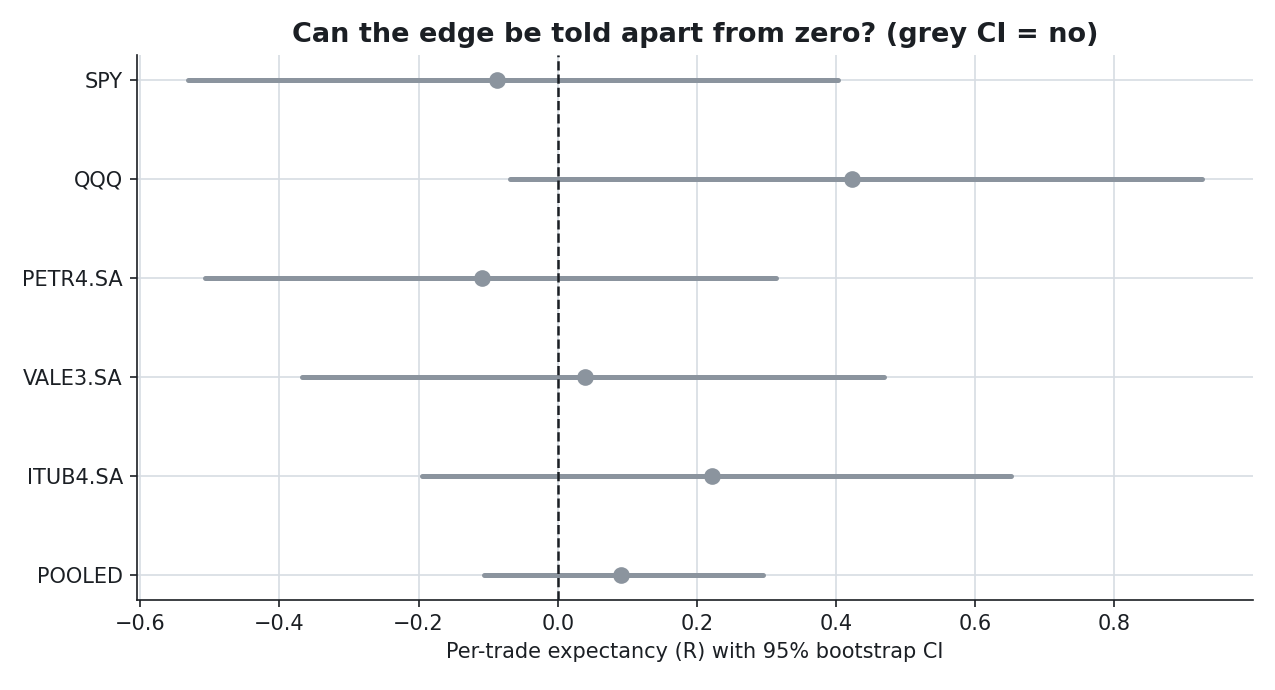
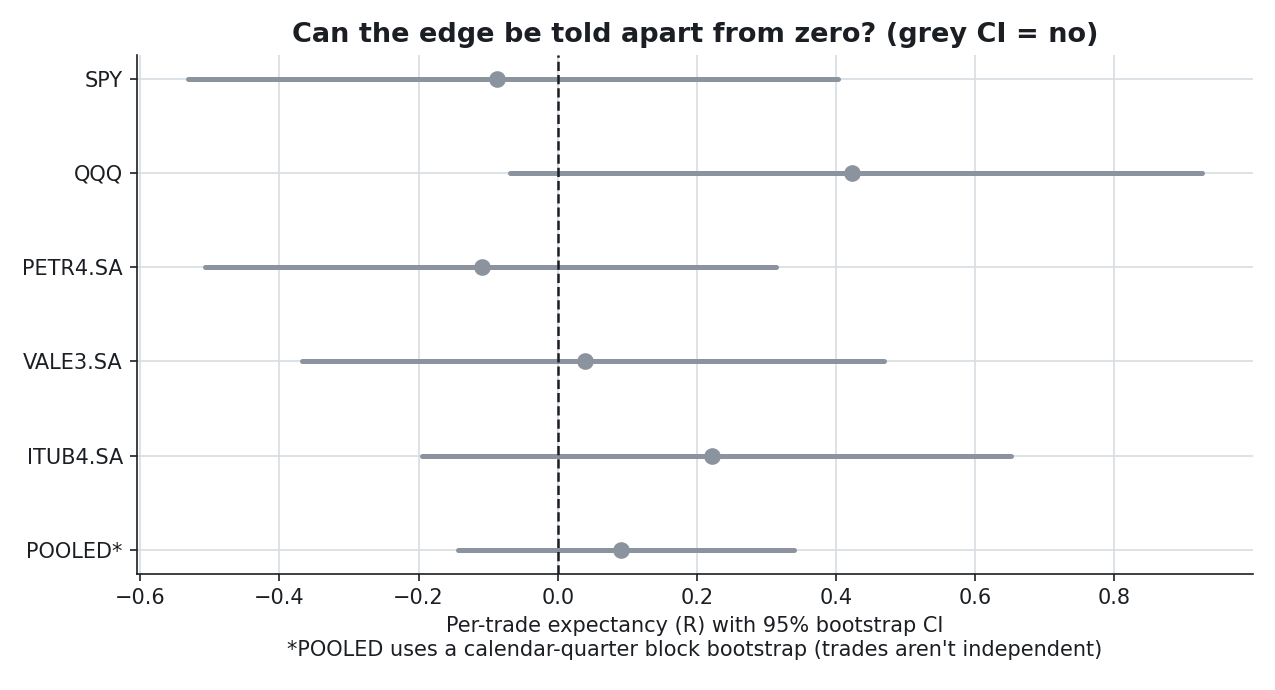
docs: reportar IC block (honesto) no estudo + comparações múltiplas e QQQ fronteira
README e PDF mostram os dois ICs do pooled e explicam por que o block é o
correto (N efetivo ~58 trimestres, não 201 trades). Nomeia o efeito de
comparações múltiplas (1−0,95⁵≈23%) e rotula QQQ como caso de fronteira. BCa
citado como refinamento conhecido que não muda o veredito.

diff --git a/README.md b/README.md
@@ -2,7 +2,7 @@
 
 [![Python](https://img.shields.io/badge/python-3.12+-blue.svg)](https://www.python.org/)
 [![License: MIT](https://img.shields.io/badge/license-MIT-green.svg)](LICENSE)
-[![Tests](https://img.shields.io/badge/tests-37%20passing-brightgreen.svg)](tests/)
+[![Tests](https://img.shields.io/badge/tests-41%20passing-brightgreen.svg)](tests/)
 [![Data](https://img.shields.io/badge/data-Yahoo%20Finance-orange.svg)](https://finance.yahoo.com/)
 [![Report](https://img.shields.io/badge/report-22--page%20PDF-red.svg)](output/expectancy_study.pdf)
 
@@ -25,9 +25,10 @@ instruments and reports the answer without spin.
   **−0.09R**, PETR4 **−0.11R** — but with only ~40 trades each, that spread is exactly what pure chance
   produces even if the true edge were identical (or zero) everywhere.
 - **Statistically, every instrument is a coin-flip.** The **95% bootstrap confidence interval on
-  expectancy straddles zero for all five** — and even **pooling all 201 trades** into one stream leaves
-  it at **[−0.11R, +0.30R]**, still including zero (P(edge > 0) ≈ 81%, short of the 95% bar). The honest
-  verdict is not "no edge" but **"underpowered — a small edge cannot be told apart from none."**
+  expectancy straddles zero for all five** — and even **pooling all 201 trades** (with a correlation-
+  aware *block* bootstrap) leaves it at **[−0.14R, +0.34R]**, still including zero (P(edge > 0) ≈ 77%).
+  The honest verdict is not "no edge" but **"underpowered — a small edge cannot be told apart from
+  none."**
 - **Variance dominates the experience.** Bootstrapping QQQ's trades 5,000 times, the outcome runs
   from a **4.7% chance of ending in the red** (despite a positive point estimate) to ~**+17% at the
   95th percentile** — same trades, same expectancy, a very different ride from luck of sequence alone.
@@ -93,7 +94,7 @@ Everything downstream of the raw OHLCV is computed, never downloaded.
 | **Sizing** | Fixed-fractional: each trade risks **0.5% of equity**; a wider stop ⇒ a smaller position |
 | **No lookahead** | A signal at the close of bar *t* is executed at the **open of bar t+1**, never at its own close |
 | **Variance/ruin** | 5,000-sample bootstrap (with replacement) with a **fixed seed** (42) for reproducibility |
-| **Significance** | 10,000-sample bootstrap **95% CI** on expectancy; **pooling** to ~200 trades; chronological **out-of-sample** split; **cost-sensitivity** sweep |
+| **Significance** | 10,000-sample bootstrap **95% CI** on expectancy; **pooling** to ~200 trades with a correlation-aware **block bootstrap**; chronological **out-of-sample** split; **cost-sensitivity** sweep |
 
 All figures and tables below come straight from the pipeline (`scripts/run_study.py` →
 `scripts/build_report.py`); nothing is hand-edited.
@@ -150,10 +151,15 @@ edge cannot be told apart from no edge.
 | VALE3.SA | 43 | +0.039 | [−0.37, +0.47] | 57% | indistinguishable from zero |
 | ITUB4.SA | 40 | +0.222 | [−0.20, +0.65] | 85% | indistinguishable from zero |
 
-*Every single interval straddles zero (all grey in the forest plot). Even QQQ — the best-looking name —
-only reaches 95% probability of a positive mean, and its interval still includes zero. At ~40 trades,
-the data cannot confirm an edge in **any** direction. This is the result the headline scorecard hides,
-and the honest centre of the whole study.*
+*Every single interval straddles zero (all grey in the forest plot). At ~40 trades, the data cannot
+confirm an edge in **any** direction — the result the headline scorecard hides, and the honest centre of
+the whole study.*
+
+Two caveats make it even more sober. **QQQ sits exactly on the boundary** (P(edge > 0) = 95%), so
+calling it positive would be a one-tailed knife-edge, not a finding. And **multiple comparisons** bite:
+across five instruments, the chance that at least one clears a 95% one-sided bar by luck alone is
+1 − 0.95⁵ ≈ **23%**. Finding one borderline name among five is roughly what pure noise predicts — a
+reason *not* to get excited about QQQ.
 
 ### 4. Pooling for power & an out-of-sample split
 
@@ -163,8 +169,23 @@ threshold where expectancy begins to settle.
 
 ![Pooled expectancy convergence](output/figures/00_pooled_convergence.png)
 
-The pooled expectancy is **+0.090R**, with a 95% CI of **[−0.11R, +0.30R]** — *still including zero*
-(P(edge > 0) ≈ 81%). Splitting the pool chronologically gives a genuine out-of-sample check:
+The pooled expectancy is **+0.090R** — but those 201 trades are **not independent**. US indices are
+~0.9 correlated and the Brazilian names move together, so trades firing in the same period carry
+redundant information. A plain i.i.d. bootstrap shreds that correlation and reports a falsely tight
+interval; a **calendar-quarter block bootstrap** (resampling whole quarters, preserving the dependence)
+gives the honest one:
+
+| Pooled 95% CI | Interval (R) | P(edge > 0) | Reads as |
+|---|---|---|---|
+| i.i.d. bootstrap (optimistic) | [−0.11, +0.30] | 81% | includes zero |
+| **block bootstrap** (58 quarters, honest) | **[−0.14, +0.34]** | 77% | **includes zero** |
+
+*The honest interval is ~20% wider — the effective sample is closer to the ~58 quarters than to 201
+trades. The conclusion does not change (zero is still inside), but the report no longer understates its
+own uncertainty. (A bias-corrected **BCa** bootstrap would refine the skew of these intervals, but since
+the percentile and block versions already agree on the verdict, it would not change it.)*
+
+Splitting the pool chronologically gives a genuine out-of-sample check:
 
 | Pool split | Trades | Expectancy (R) |
 |---|---|---|
@@ -242,9 +263,10 @@ is the whole argument for sizing small.*
 ## Conclusions
 
 1. **The strategy's edge cannot be confirmed — or ruled out — at this sample size.** Every per-trade
-   expectancy CI straddles zero, and so does the pooled one (201 trades, [−0.11R, +0.30R]). The honest
-   statement is "underpowered," not "no edge." With ~40 trades per instrument, the eye-catching spread
-   from −0.11R to +0.42R is well within what noise alone would produce over a common true edge.
+   expectancy CI straddles zero, and so does the pooled one even after a correlation-aware block
+   bootstrap (201 trades, [−0.14R, +0.34R]). The honest statement is "underpowered," not "no edge."
+   With ~40 trades per instrument, the eye-catching spread from −0.11R to +0.42R is well within what
+   noise alone would produce over a common true edge.
 2. **A moving-average crossover on daily bars is structurally underpowered.** It fires ~2.5 times a
    year, so even 16 years cannot generate the trades needed to validate or invalidate it. That — more
    than the strategy being "good" or "bad" — is the concrete lesson here.
@@ -273,7 +295,7 @@ py -3.12 -m venv .venv
 pip install -r requirements.txt
 pip install -e .
 
-pytest -q                               # 37 tests
+pytest -q                               # 41 tests
 python main.py                          # single instrument from config.yaml (full scorecard + figures)
 python scripts/run_study.py             # downloads + caches data, runs the US+BR basket
 python scripts/build_report.py          # renders output/figures/*.png and the PDF report
@@ -307,7 +329,7 @@ src/expectancy/
   runner.py        wires the layers into one backtest run
 scripts/           run_study.py (basket + cache) · build_report.py (figures + PDF)
 main.py            single-instrument entry point (the brief's acceptance criterion)
-tests/             37 tests: lookahead, R-multiples, expectancy sanity, sizing, Monte-Carlo, significance
+tests/             41 tests: lookahead, R-multiples, expectancy sanity, sizing, Monte-Carlo, significance
 output/figures/    the figures used in the report and this README (committed)
 ```
 
